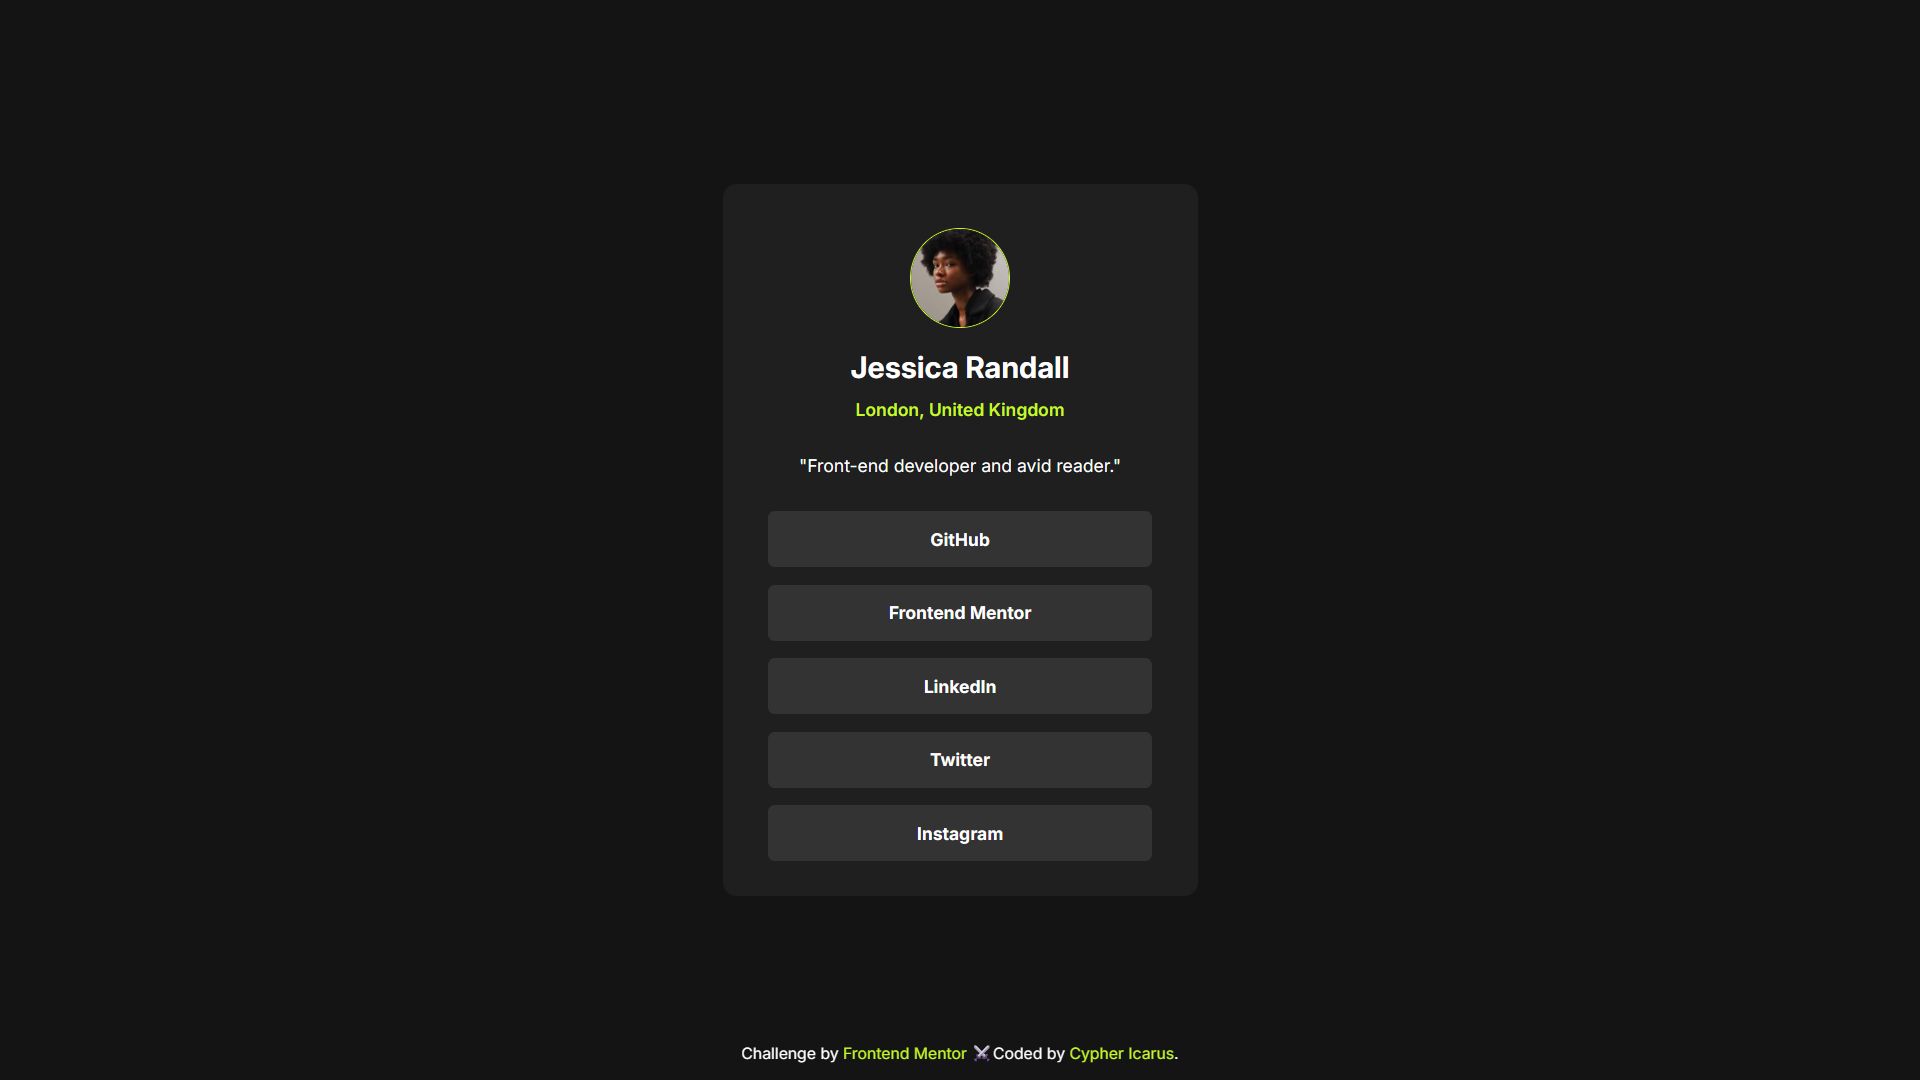
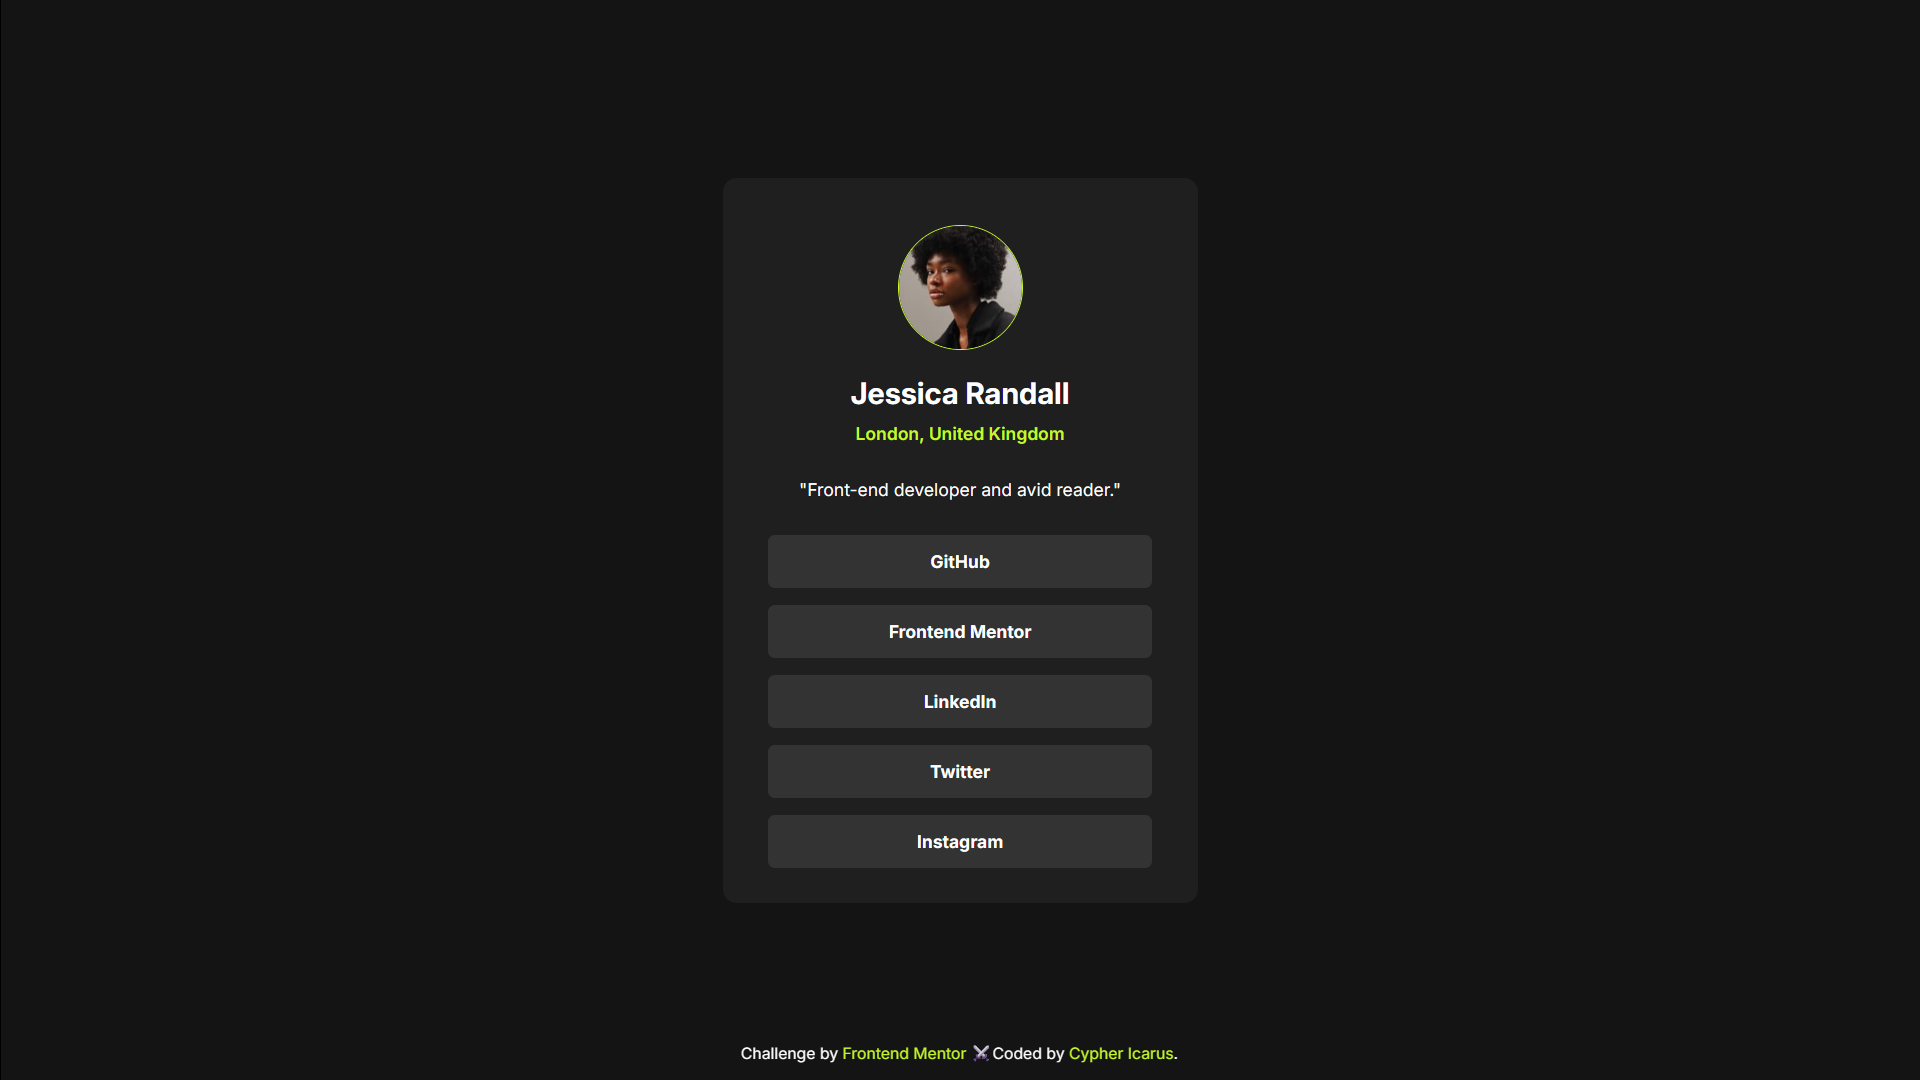
Finalize social-links-profile-main

diff --git a/social-links-profile-main/css/styles.css b/social-links-profile-main/css/styles.css
@@ -33,16 +33,15 @@ body {
     background-color: var(--grey-800);
     width: 90%;
     max-width: 380px;
-    min-width: 340px;
     margin: 5px auto;
     padding: 1.5rem 2rem;
     border-radius: 0.8rem;
 }
 
 .profile-picture {
-    max-width: 80px;
+    max-width: 100px;
     border-radius: 50%;
-    margin: 1rem;
+    margin: 1.2rem;
     border: 1px solid var(--green);
 }
 
@@ -54,7 +53,7 @@ body {
     font-size: 1rem;
     font-weight: 600;
     color: var(--green);
-    margin: 0.8rem auto 1.2rem;
+    margin: 0.7rem auto 1.2rem;
 }
 
 .designation {
@@ -77,42 +76,40 @@ a {
     text-decoration: none;
 }
 
-.social-media-links a {
+.social-link {
     font-weight: 700;
     background-color: var(--grey-700);
     display: inline-block;
     width: 95%;
-    min-height: 3rem;
-    height: 100%;
     margin: 0.5rem 0.4rem;
-    padding: 0.6rem;
+    padding: 0.5rem;
     border-radius: 0.4rem;
     border-color: var(--green);
 }
 
-.social-media-links a:link {
+.social-link:link {
     color: white;
 }
 
-.social-media-links a:visited {
+.social-link:visited {
     color: white;
 }
 
-.social-media-links a:hover,
-.social-media-links a:focus {
+.social-link:hover,
+.social-link:focus {
     background-color: var(--green);
     color: var(--grey-700);
     scale: 1.01;
+    cursor: pointer;
 }
 
-.social-media-links a:focus {
-    outline: 1px solid var(--green);
+.social-link:focus {
+    outline: 1px solid var(--green);    
 }
 
-.social-media-links a:active {
+.social-link:active {
     color: rosybrown;
 }
-
 
 .attribution {
     position: fixed;
@@ -121,19 +118,29 @@ a {
     font-size: 0.9rem;
 }
 
-.attribution a:link {
+.attribution a {
     color: var(--green);
-}
-
-.attribution a:visited {
-    color: rosybrown;
 }
 
 .attribution a:hover,
 .attribution a:focus {
     color: white;
+    cursor: pointer;
 }
 
 .attribution a:active {
     color: rosybrown;
+}
+
+
+@media (max-width: 400px) {
+    .profile-container {
+        min-width:300px;
+    }
+
+
+    .social-link {
+        min-width: 100%;    
+        margin: 0.5rem auto;
+    }
 }

diff --git a/social-links-profile-main/index.html b/social-links-profile-main/index.html
@@ -38,14 +38,14 @@
 
       <nav class="social-media-links" aria-label="social media links">
         <ul>
-          <li><a class="github-link" href="https://github.com/" target="_blank" aria-label="Visit Jessica Randall's Github profile">GitHub</a></li>
-          <li><a class="frontend-mentor-link" href="https://frontendmentor.io/" target="_blank"  aria-label="Visit Jessica Randall's Frontend Mentor profile">Frontend Mentor</a></li>
-          <li><a class="linkedin-link" href="https://linkedin.com/in/" target="_blank" aria-label="Visit Jessica Randall's Linkedin profile">LinkedIn</a></li>
-          <li><a class="twitter-link" href="https://x.com/" target="_blank"  aria-label="Visit Jessica Randall's Twitter profile">Twitter</a></li>
-          <li><a class="instagram-link" href="https://instagram.com" target="_blank"  aria-label="Visit Jessica Randall's Instagram profile">Instagram</a></li>
+          <li><a class="social-link" href="https://github.com/" target="_blank" aria-label="Visit Jessica Randall's Github profile">GitHub</a></li>
+          <li><a class="social-link" href="https://frontendmentor.io/" target="_blank"  aria-label="Visit Jessica Randall's Frontend Mentor profile">Frontend Mentor</a></li>
+          <li><a class="social-link" href="https://linkedin.com/in/" target="_blank" aria-label="Visit Jessica Randall's Linkedin profile">LinkedIn</a></li>
+          <li><a class="social-link" href="https://x.com/" target="_blank"  aria-label="Visit Jessica Randall's Twitter profile">Twitter</a></li>
+          <li><a class="social-link" href="https://instagram.com" target="_blank"  aria-label="Visit Jessica Randall's Instagram profile">Instagram</a></li>
         </ul>
       </nav>
-      
+
     </article>
   </main>
 
